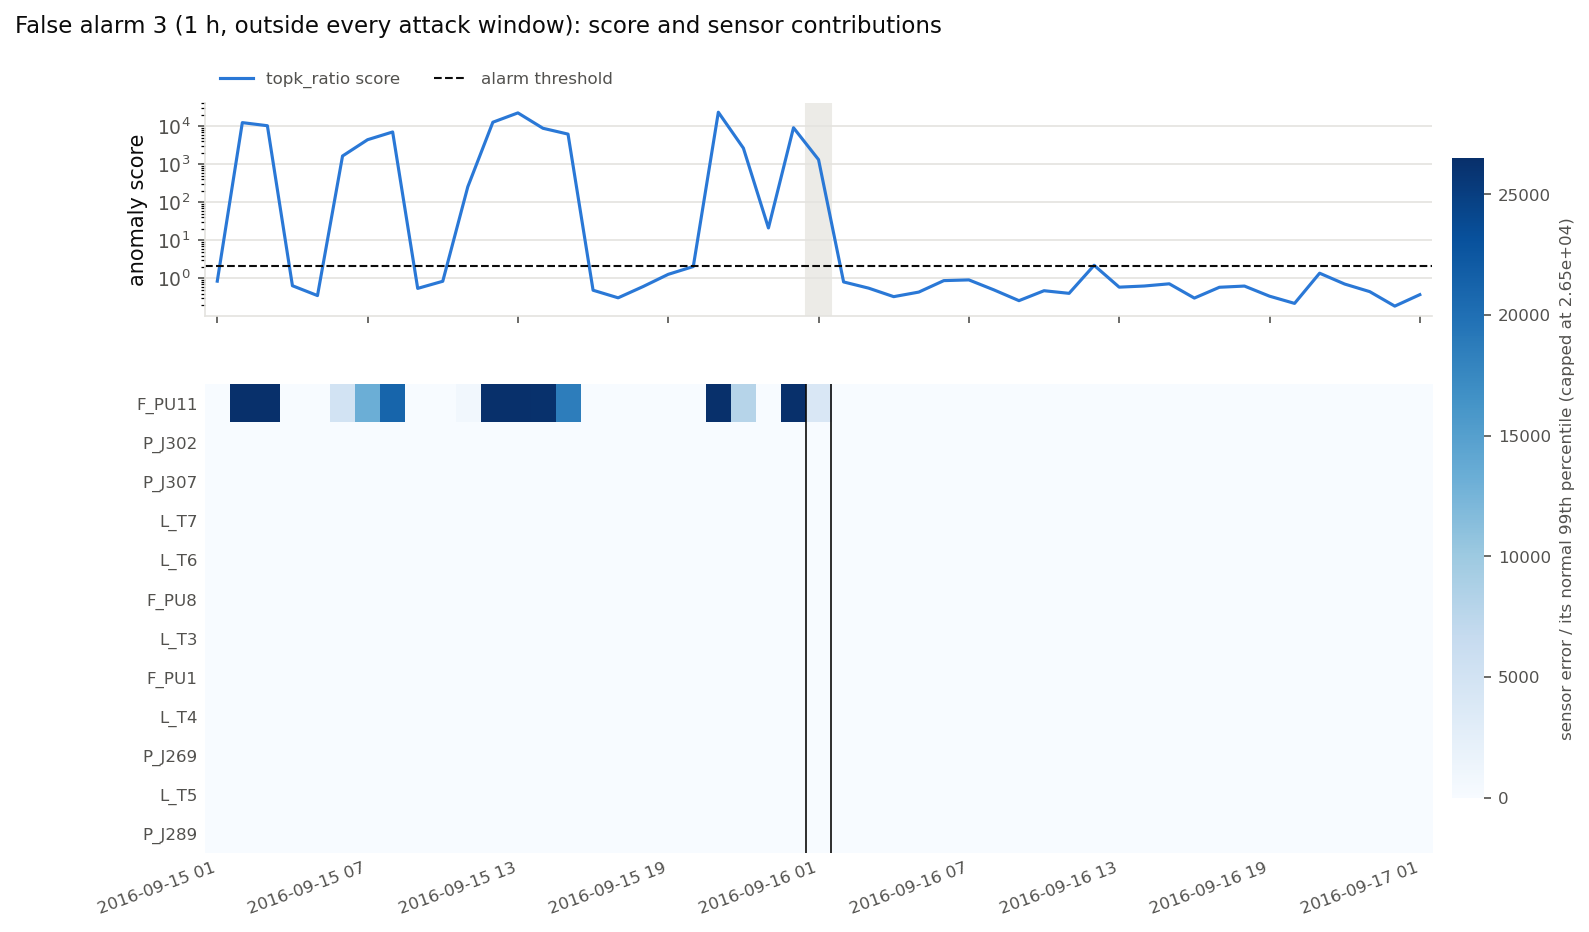
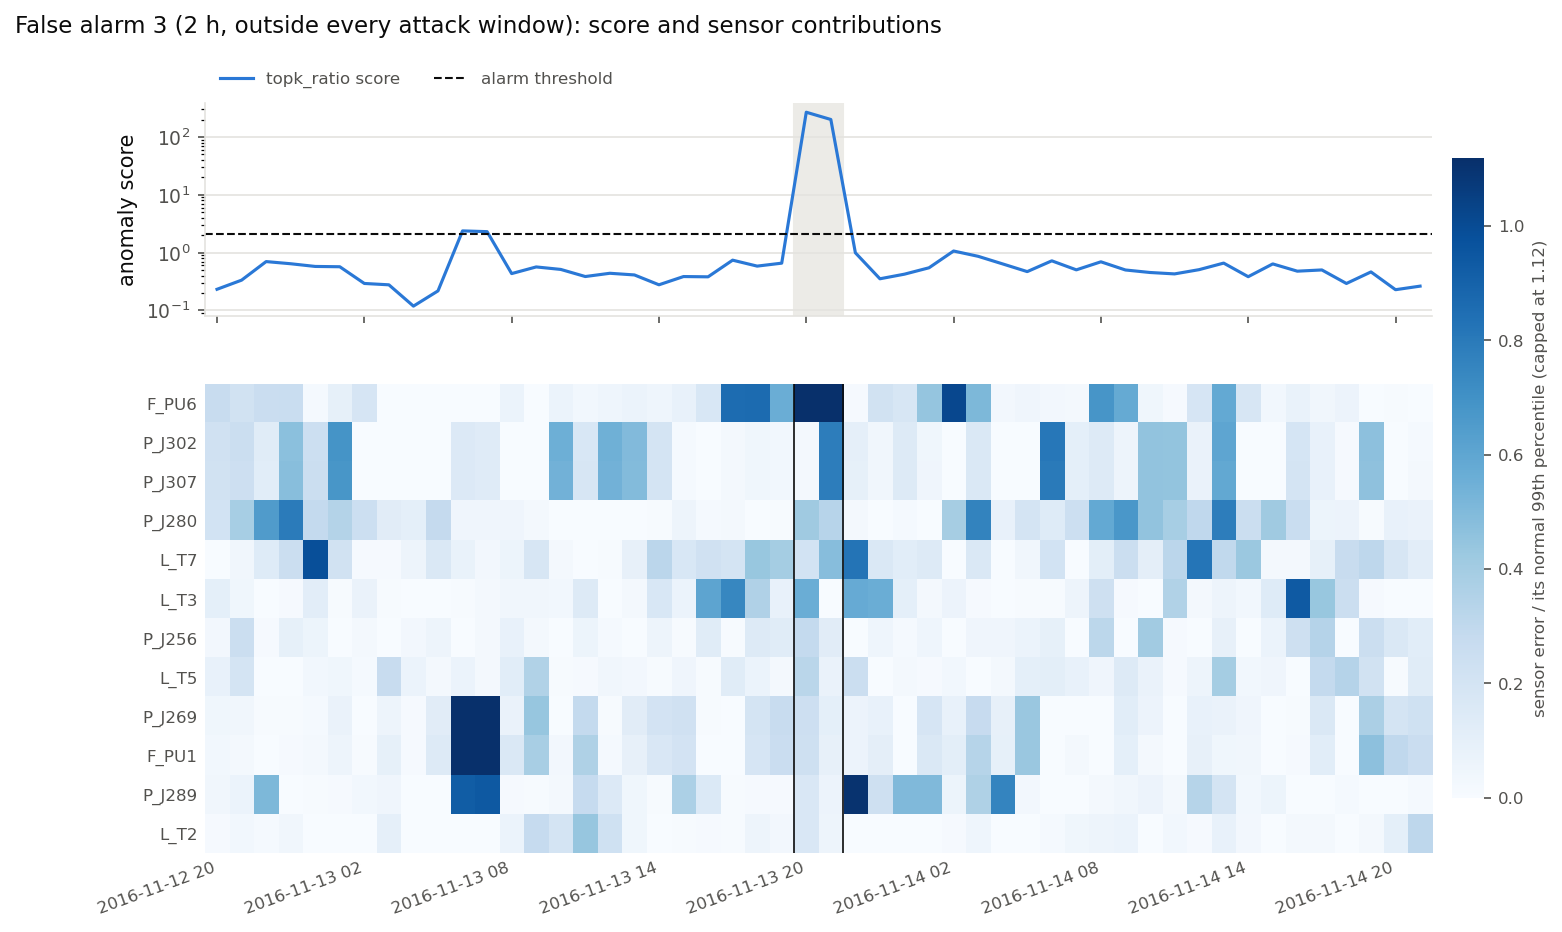
Rerun Ridge shared evaluation with merge gap 2 and grace 3

diff --git a/docs/ridge.md b/docs/ridge.md
@@ -201,20 +201,37 @@ We also scored Ridge with Vincent's shared code (`calibrate` and `run_evaluation
 
 - We use the squared errors from `ridge_errors.csv`, because the shared code expects bigger = worse and Ridge's errors are signed.
 - The threshold is set on Calibration for three scores (`topk_percentile`, `mean`, `topk_ratio`), with the top 3 sensors, at most 1% of hours under alarm and at most 1 episode per week.
+- We use the team's shared settings, the same as the Transformer and Isolation Forest: merge gap 2 (alarm runs separated by 2 or fewer quiet hours count as one episode) and grace hours 3 (the 3 hours after each attack ends aren't counted). So Dataset 2 has 492 attack hours and 3,664 clean hours.
 - All 7 attacks are detected with all three scores.
+- Our first run used merge gap 0 and grace 0. With 2 and 3, the episodes per week dropped slightly (1.46 to 1.38 for `topk_percentile`), the threshold stayed the same, and Ridge is still outside the budget on Dataset 2.
 
 | | Our Ridge (section 7) | `topk_ratio` | `topk_percentile` |
 |---|---|---|---|
-| Precision | 0.893 | 0.891 | 0.891 |
+| Precision | 0.893 | 0.893 | 0.894 |
 | Recall | 0.610 | 0.630 | 0.598 |
-| F1 | 0.725 | 0.738 | 0.715 |
+| F1 | 0.725 | 0.739 | 0.716 |
 | ROC-AUC | 0.866 | 0.864 | 0.864 |
-| PR-AUC | 0.741 | 0.746 | 0.728 |
-| False alarm episodes per week | 1.46 | 1.41 | 1.46 |
+| PR-AUC | 0.741 | 0.749 | 0.731 |
+| False alarm episodes per week | 1.46 | 1.33 | 1.38 |
 
-`topk_ratio` is closest to our method, and the numbers are almost the same, so both pieces of code agree. The `topk_percentile` threshold is 0.9975, close to its ceiling of 1.
+`topk_ratio` is closest to our method, and the numbers are almost the same, so both pieces of code agree. Our own Ridge (section 7) counts episodes without a merge gap or grace hours, so its 1.46 per week uses a slightly stricter rule. The `topk_percentile` threshold is 0.9975, close to its ceiling of 1.
 
-**Budget:** all three scores are outside the budget on Dataset 2, same as in section 7. They all have more than 1 false alarm episode per week (`topk_percentile` 1.46, `mean` 1.28, `topk_ratio` 1.41). On Validation, `topk_percentile` and `topk_ratio` are also outside the budget. Only `mean` stays inside.
+**Budget:** all three scores are outside the budget on Dataset 2, same as in section 7. They all have more than 1 false alarm episode per week (`topk_percentile` 1.38, `mean` 1.24, `topk_ratio` 1.33). On Validation, `topk_percentile` and `topk_ratio` are also outside the budget. Only `mean` stays inside.
+
+**Ridge vs the Transformer** (both with `topk_percentile` and the same settings: top 3 sensors, merge gap 2, grace hours 3). The Transformer numbers are from `models/Transformer`, the frozen 12-hour model, seed 0.
+
+| | Ridge | Transformer |
+|---|---|---|
+| Precision | 0.894 | 0.906 |
+| Recall | 0.598 | 0.630 |
+| F1 | 0.716 | 0.743 |
+| ROC-AUC | 0.864 | 0.919 |
+| PR-AUC | 0.731 | 0.792 |
+| S score | 0.840 | 0.895 |
+| Mean delay (hours) | 7.7 | 1.7 |
+| False alarm episodes per week | 1.38 | 1.15 |
+
+The Transformer is better on every measure, mostly in ranking (ROC-AUC, PR-AUC) and speed (mean delay). This is likely because it sees the last 12 hours, while Ridge sees one hour at a time. Both are outside the budget on Dataset 2.
 
 **Caution:** the S score is about 0.84 to 0.85 (0.840, 0.846 and 0.848). The competition's S scores are on the Test set, so ours (on Dataset 2) can't be compared with them yet.
 
